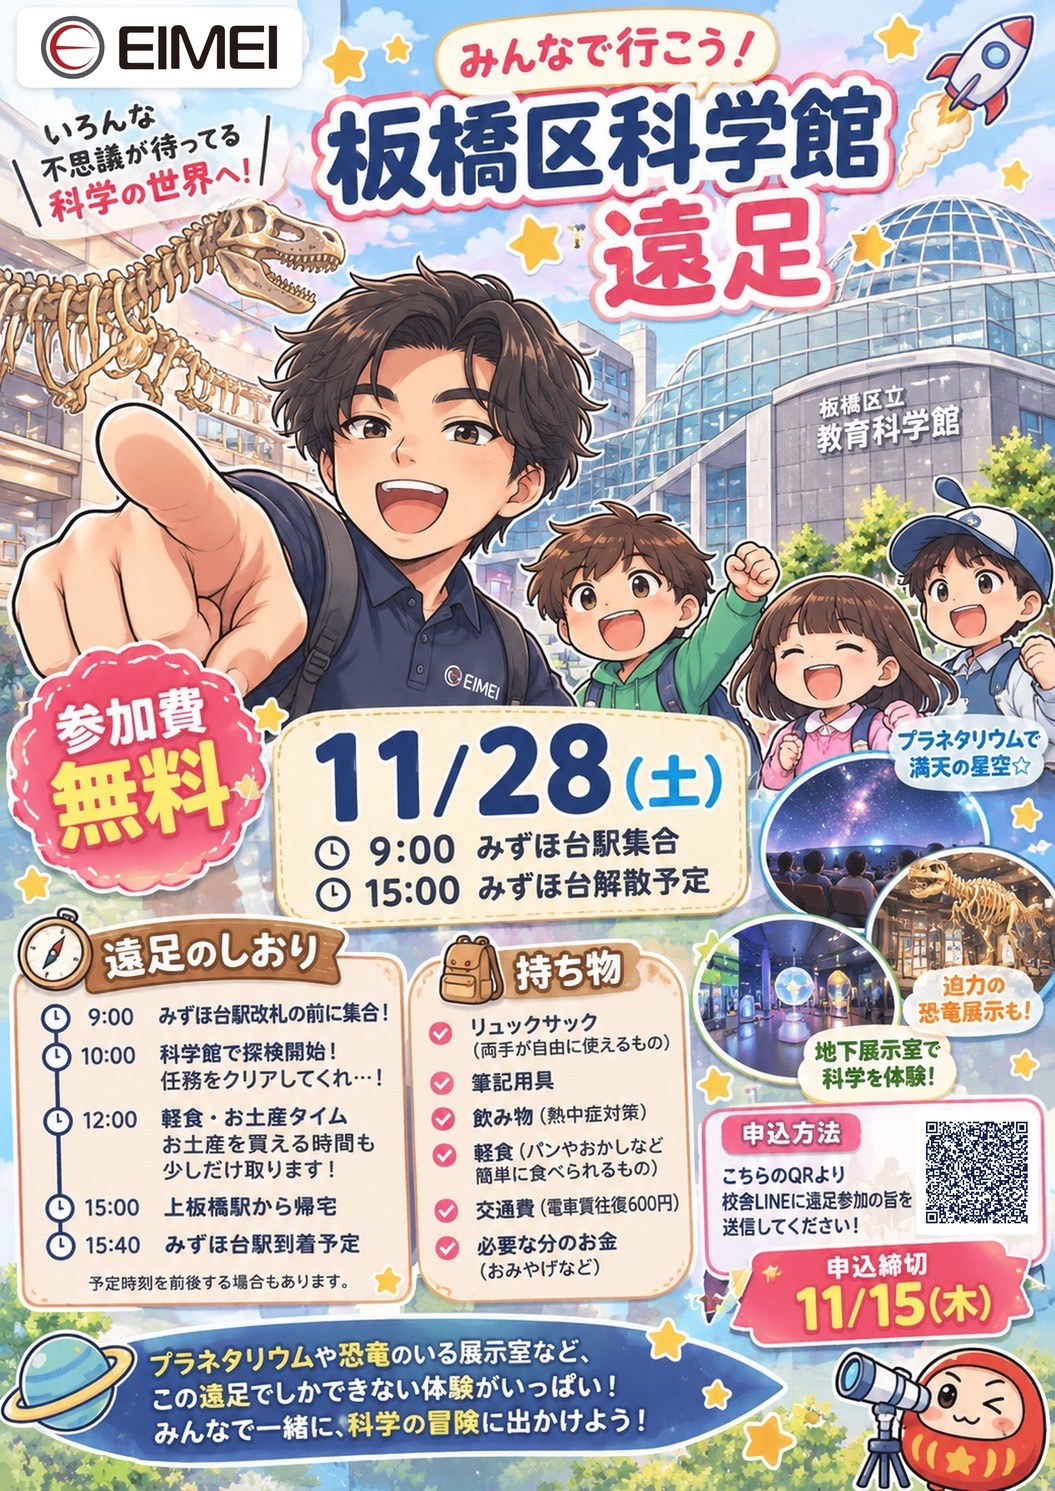
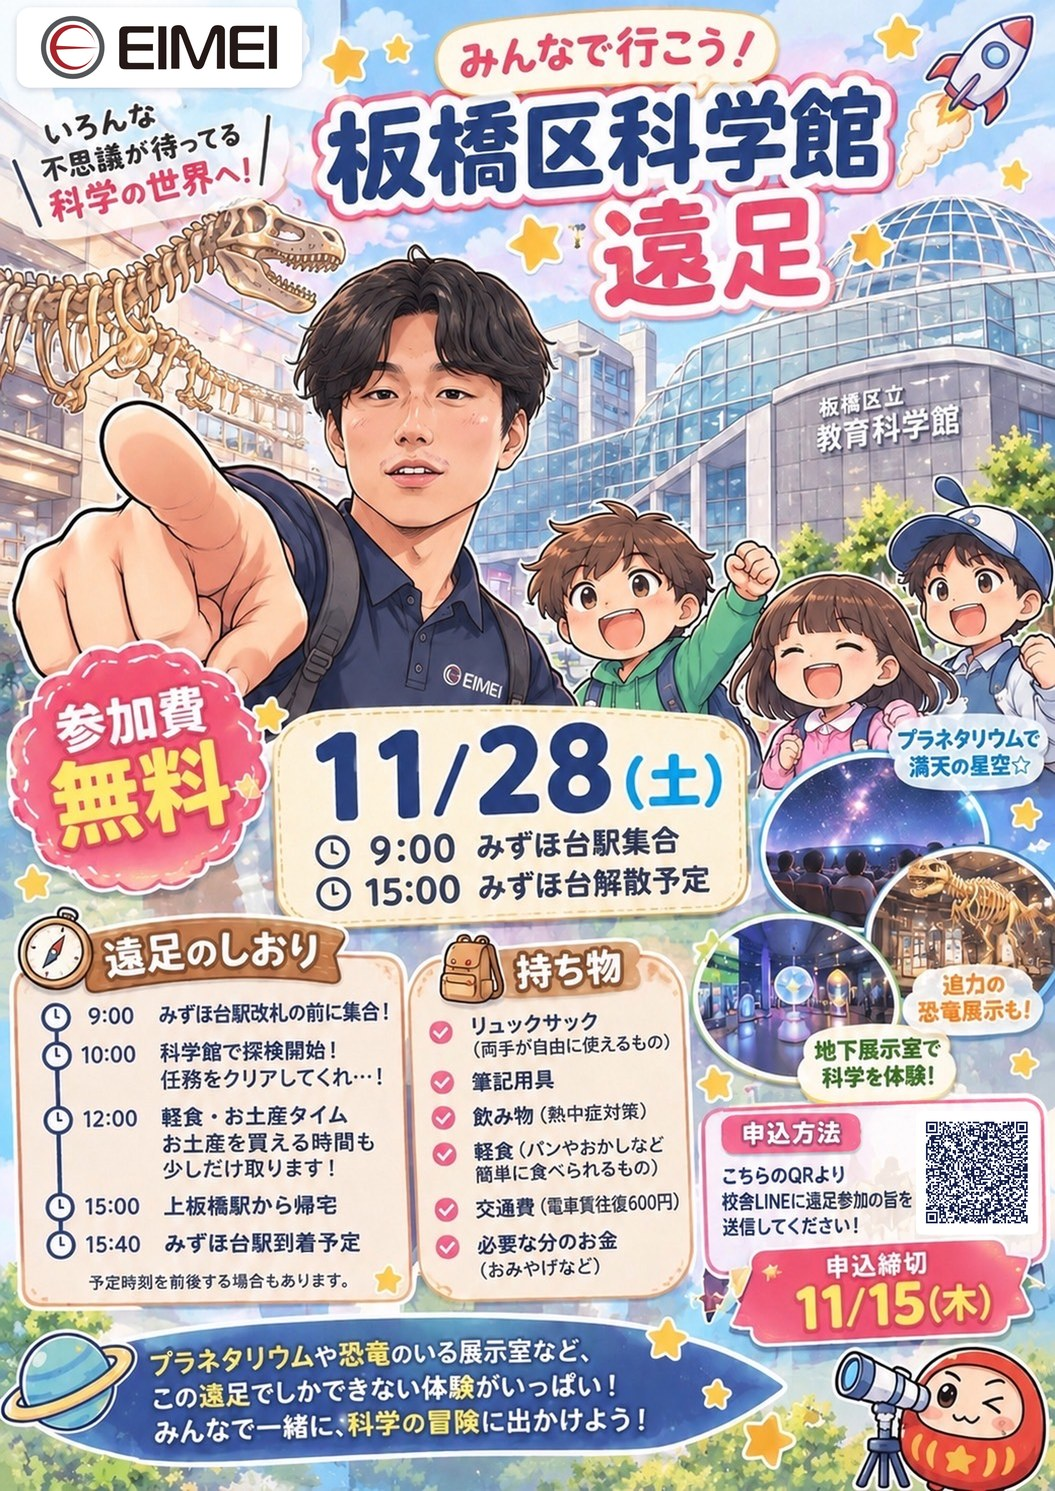
確認事項を反映（締切11/15日・お土産なし・観覧料は塾負担・引率3人・雨天決行・保護者の声は外す）とチラシ画像を新しい版に
Claude-Session: https://claude.ai/code/session_015MFdFexvXc15YKCDsd3xFN

diff --git a/index.html b/index.html
@@ -11,7 +11,7 @@
 <meta property="og:type" content="website">
 <meta property="og:title" content="11/28(土) 板橋区科学館へ大冒険｜エイメイ水谷 小学生イベント">
 <meta property="og:description" content="プラネタリウムと20以上の体験展示。小1〜6年生対象・参加費無料。お申し込みは公式LINEから。">
-<meta property="og:image" content="https://eimei-event-lp.vercel.app/img/ogp.jpg">
+<meta property="og:image" content="https://eimei-event-lp.vercel.app/img/ogp.jpg?v=2">
 <meta property="og:url" content="https://eimei-event-lp.vercel.app/">
 <meta name="twitter:card" content="summary_large_image">
 <meta name="theme-color" content="#05081c">
@@ -314,10 +314,10 @@ body::before{content:"";position:fixed;inset:0 0 auto;height:env(safe-area-inset
         <a class="btn btn-ghost" href="#spots">見どころを見る</a>
       </div>
       <p class="countdown" id="countdown">出発まで <b>--</b> 日</p>
-      <p class="deadline">申込締切 <b>11/15</b> <span class="pend">【要確認：曜日】</span></p>
+      <p class="deadline">申込締切 <b>11/15（日）</b></p>
     </div>
     <figure class="specimen">
-      <img src="img/ensoku.jpg" alt="板橋区科学館遠足のチラシ。11月28日（土）9時みずほ台駅集合、参加費無料">
+      <img src="img/ensoku.jpg?v=2" alt="板橋区科学館遠足のチラシ。11月28日（土）9時みずほ台駅集合、参加費無料">
       <figcaption>FLYER No.2026-11</figcaption>
     </figure>
   </div>
@@ -402,7 +402,7 @@ body::before{content:"";position:fixed;inset:0 0 auto;height:env(safe-area-inset
     <ol class="log reveal">
       <li><time>9:00</time><b>みずほ台駅 改札前に集合</b><span>電車で上板橋駅へ向かいます</span></li>
       <li class="hl"><time>10:00</time><b>科学館で探検開始！</b><span>任務をクリアしながら館内をまわります。プログラムの中でプラネタリウムも見ます</span></li>
-      <li><time>12:00</time><b>軽食・お土産タイム</b><span>お土産を買える時間も少しだけ取ります</span></li>
+      <li><time>12:00</time><b>軽食タイム</b><span>持ってきた軽食を食べて、ひと休みします</span></li>
       <li><time>15:00</time><b>上板橋駅から帰路へ</b><span>みんなで電車に乗って帰ります</span></li>
       <li><time>15:40</time><b>みずほ台駅に到着・解散予定</b><span>到着のめどはオープンチャットでお知らせします</span></li>
     </ol>
@@ -425,19 +425,18 @@ body::before{content:"";position:fixed;inset:0 0 auto;height:env(safe-area-inset
           <li><label><input type="checkbox" id="b3"><span>飲み物</span></label></li>
           <li><label><input type="checkbox" id="b4"><span>軽食<small>パンやおかしなど、簡単に食べられるもの</small></span></label></li>
           <li><label><input type="checkbox" id="b5"><span>交通費<small>電車賃 往復600円</small></span></label></li>
-          <li><label><input type="checkbox" id="b6"><span>必要な分のお金<small>おみやげ代など</small></span></label></li>
         </ul>
         <div class="meter" aria-hidden="true"><i id="gear-bar"></i></div>
-        <p class="check-meter" id="gear-meter" aria-live="polite">装備 0 / 6</p>
+        <p class="check-meter" id="gear-meter" aria-live="polite">装備 0 / 5</p>
       </div>
       <div class="panel reveal" id="parents">
         <h3>保護者の方へ <span class="mono">FOR PARENTS</span></h3>
         <ul class="plain">
           <li>時間の前後や遠足の様子は、<b>参加される方だけのオープンチャットでリアルタイムにお知らせ</b>します。参加リンクは、お申し込みのあと公式LINEでお送りします。</li>
-          <li>参加費は無料です。電車賃（往復600円）とおみやげ代などはご用意ください。</li>
-          <li>プラネタリウム観覧料の扱い <span class="pend">【要確認：参加費に含むか】</span></li>
-          <li>対象は<b>小学1〜6年生</b>です。引率の人数 <span class="pend">【要確認】</span></li>
-          <li>雨の日の実施 <span class="pend">【要確認】</span></li>
+          <li>参加費は無料です。電車賃（往復600円）だけご用意ください。</li>
+          <li>プラネタリウムの観覧料は塾で負担します。</li>
+          <li>対象は<b>小学1〜6年生</b>です。当日は<b>先生3人</b>が引率します。</li>
+          <li>雨の日も実施します（雨天決行）。</li>
         </ul>
       </div>
     </div>
@@ -503,7 +502,6 @@ body::before{content:"";position:fixed;inset:0 0 auto;height:env(safe-area-inset
       <div class="ph">PHOTO 01</div><div class="ph">PHOTO 02</div><div class="ph">PHOTO 03</div><div class="ph">PHOTO 04</div>
     </div>
     <div class="voice reveal"><b>FROM TEACHERS</b>イベントのたびに「お手伝いしたい！」と自分から言ってくれる子がたくさんいます。夏祭りでは、小学生が自分から受付をやってくれました。</div>
-    <div class="voice reveal"><b>FROM PARENTS</b><span class="pend">【要確認：参加者の感想を抜粋（名前・学校が分からない形で）】</span></div>
   </div>
 </section>
 
@@ -513,7 +511,7 @@ body::before{content:"";position:fixed;inset:0 0 auto;height:env(safe-area-inset
       <span class="no">05</span>
       <span class="tag">LAUNCH SEQUENCE</span>
       <h2>公式LINEで、かんたん申込</h2>
-      <p>申込締切は 11/15 です。公式LINEの追加と、下の内容の連絡で申込完了です。</p>
+      <p>申込締切は 11/15（日）です。公式LINEの追加と、下の内容の連絡で申込完了です。</p>
     </div>
     <ol class="steps">
       <li class="reveal"><span class="n">STEP 01</span><b>公式LINEを開く</b><span>下のボタンから、エイメイ水谷校舎の公式LINEを友だち追加してください。</span></li>
@@ -546,7 +544,7 @@ body::before{content:"";position:fixed;inset:0 0 auto;height:env(safe-area-inset
       <h2>みずほ台の小学生向け 科学館遠足Q&amp;A</h2>
     </div>
     <div class="reveal">
-      <details><summary>Q. 参加費はかかりますか？</summary><p>参加費は無料です。電車賃（往復600円）とおみやげ代などはご用意ください。</p></details>
+      <details><summary>Q. 参加費はかかりますか？</summary><p>参加費は無料です（プラネタリウムの観覧料も塾で負担します）。電車賃（往復600円）だけご用意ください。</p></details>
       <details><summary>Q. 友だちを誘って参加できますか？</summary><p>大歓迎です。その場合は、お友だちの保護者の方にも公式LINEの追加とご連絡をお願いしています（当日の連絡をすべてのご家庭に届けるためです）。</p></details>
       <details><summary>Q. 何年生が参加できますか？</summary><p>小学1年生から6年生まで参加できます。</p></details>
       <details><summary>Q. 当日の様子は分かりますか？</summary><p>出発や到着の時間、遠足の様子を、参加される方だけのオープンチャットでリアルタイムにお知らせします。参加リンクはお申し込みのあと公式LINEでお送りします。</p></details>
